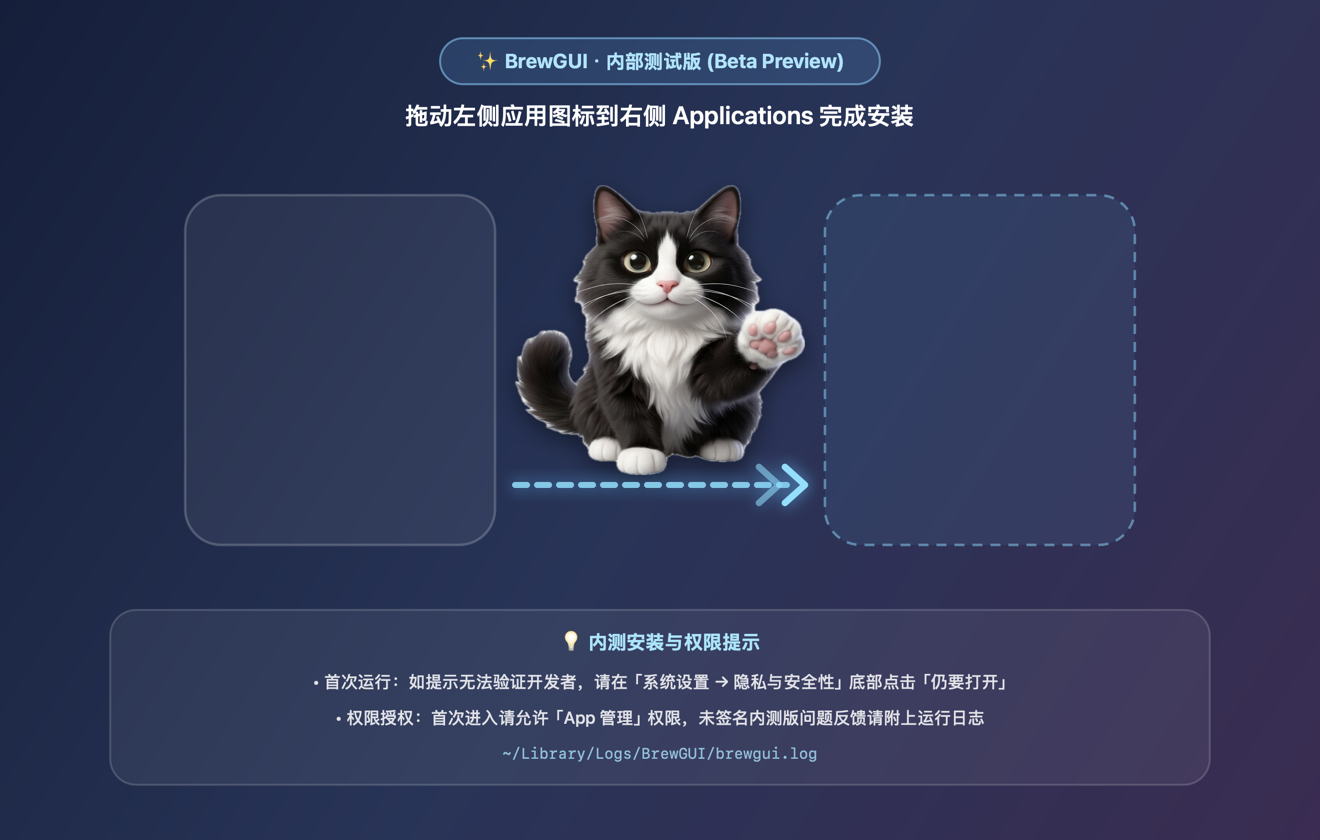
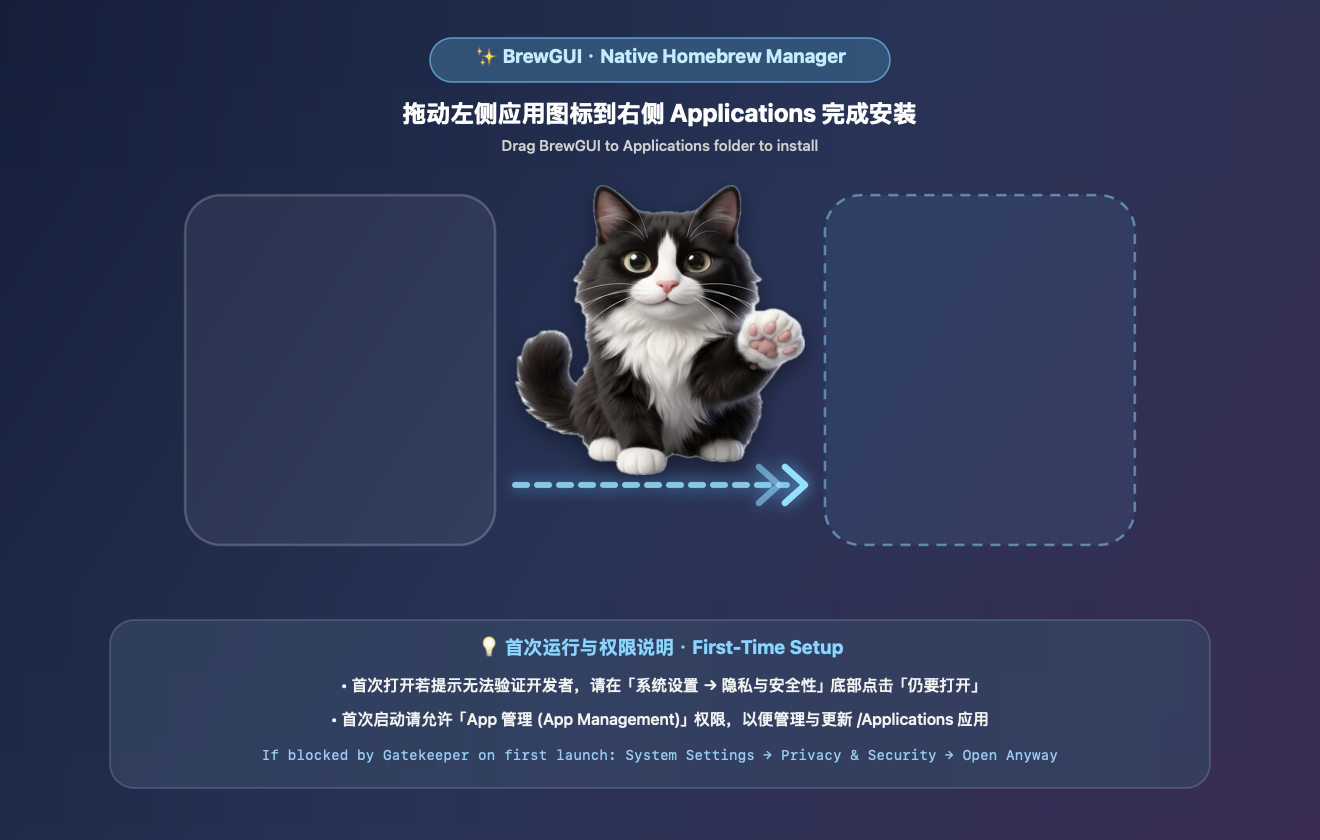
docs & build: add README_EN.md, remove beta badge from DMG bg, and inject dmg_DS_Store for CI

Changed region(s): [[0.0932, 0.7119, 0.9008, 0.9595], [0.2795, 0.031, 0.7144, 0.1857]]

diff --git a/Sources/BrewGUI/Models.swift b/Sources/BrewGUI/Models.swift
@@ -2,7 +2,12 @@ import Foundation
 
 public enum AppConstants {
     /// 版本格式: 版本号.修订号(用法兼容的修订).日期号(YYMMDD)
-    public static let versionString = "1.6.261106"
+    public static let versionString: String = {
+        if let shortVer = Bundle.main.infoDictionary?["CFBundleShortVersionString"] as? String, !shortVer.isEmpty {
+            return shortVer
+        }
+        return "1.6.261106"
+    }()
     public static let githubVersionJSONURL = "https://github.com/cfqbridge/BrewGUI/releases/latest/download/version.json"
     public static let githubMirrorPrefix = "https://ghfast.top/"
 

diff --git a/README_EN.md b/README_EN.md
@@ -1,0 +1,133 @@
+# BrewGUI
+
+<p align="center">
+  <img src="ref/icon_option_c.png" alt="BrewGUI Logo" width="128" height="128" />
+</p>
+
+<p align="center">
+  <strong>A lightweight, native, and transparent Homebrew GUI client for macOS</strong>
+</p>
+
+<p align="center">
+  <a href="readme.md">简体中文</a> · <b>English</b>
+</p>
+
+<p align="center">
+  <a href="https://github.com/cfqbridge/BrewGUI/releases"><img src="https://img.shields.io/badge/Release-v1.6.261106-blue.svg" alt="Release Version"></a>
+  <a href="#"><img src="https://img.shields.io/badge/Platform-macOS%2014.0%2B%20%7C%20Apple%20Silicon-black.svg" alt="Platform"></a>
+  <a href="#"><img src="https://img.shields.io/badge/Swift-6.0%20%7C%20Native%20AppKit%20%2B%20SwiftUI-orange.svg" alt="Swift"></a>
+  <a href="#"><img src="https://img.shields.io/badge/i18n-简体中文%20%7C%20繁體中文%20%7C%20English-teal.svg" alt="i18n"></a>
+  <a href="LICENSE"><img src="https://img.shields.io/badge/License-GPL--3.0-green.svg" alt="License"></a>
+</p>
+
+---
+
+## 🌟 Why BrewGUI?
+
+[Homebrew](https://brew.sh/) is the indispensable package manager for macOS, yet daily CLI workflows often run into friction:
+- **Zero progress feedback during large Cask upgrades**: Non-TTY pipes hide `curl` progress, making hundreds-of-megabyte downloads feel frozen.
+- **Disconnected local apps in `/Applications`**: Manually installed `.dmg` apps sit outside Homebrew Cask tracking or drift out of sync with Cask versions.
+- **Hidden disk bloat**: Gigabytes of cached installers in `~/Library/Caches/Homebrew/downloads` and orphaned Formula dependencies pile up silently.
+- **Tedious machine migration**: Reinstalling dozens of packages one by one or blocked by a single slow Cask download.
+
+**BrewGUI** solves these pain points with a 100% native **Swift 6 + SwiftUI + AppKit** architecture—no Electron, ultra-low memory footprint, instant search, and complete transparency over every `brew` command executed.
+
+---
+
+## ✨ Key Features
+
+### 1. 🪟 Dual Interaction Mode (Desktop Window + Menu Bar Resident)
+- **Left-Click to Open, Right-Click for Quick Popover**: Left-click the menu bar icon to summon the main window; right-click to open an adaptive popover showing outdated packages and one-click upgrades.
+- **Silent Launch at Login**: Optionally start silently in the menu bar (`--silent`) and automatically hide the Dock icon whenever the main window is closed.
+- **Scheduled Background Checks**: Automatically run `brew update` every 12h or 72h in the background with a subtle red badge when updates arrive.
+
+### 2. 🔍 Instant Search & Local App Adoption (`Adopt`)
+- **Millisecond Full-Catalog Search**: Unified search across all Homebrew Formulae and Casks.
+- **Smart `/Applications` Scanner**: Automatically detects manually installed apps, distinguishing Mac App Store (`_MASReceipt`) and iOS/iPadOS wrapped bundles (`WrappedBundle`).
+- **Version-Aware Force Upgrade**: When a local app is older than the Homebrew Cask version, BrewGUI uses `brew install --cask --force` to adopt and upgrade the app in one step rather than merely claiming an outdated bundle.
+
+### 3. 📦 Installed Packages & On-Disk Bundle Verification
+- **Multi-Dimensional Filtering**: Filter by Outdated, Top-Level (`brew leaves`), Formulae, Casks, or Pinned status (`brew pin` / `unpin`).
+- **Real `Info.plist` Version Check**: Cross-checks `/Applications/<App>.app/Contents/Info.plist` against Homebrew's recorded version to catch version drift.
+- **Clean Uninstall & `--zap`**: Uninstall Casks normally or with `--zap` to purge associated caches and preference files.
+
+### 4. 🧹 Maintenance & Disk Cleanup
+- **Download Cache Inspector**: Inspect every cached archive in `~/Library/Caches/Homebrew/downloads`, reveal in Finder, delete individual files, or run `brew cleanup --prune=all` in one click.
+- **Orphan Dependency Removal (`autoremove`)**: Detect and remove unused Formula dependencies safely.
+
+### 5. ⚡ Batch Install & Environment Migration
+- **Paste & Parse**: Paste raw package lists or `brew install` scripts to resolve catalog status in real time.
+- **Concurrent Download Size Probing**: Probes HTTP `HEAD Content-Length` concurrently so you can preview package sizes and filter lightweight packages (`<100MB`) first.
+- **Hybrid Queue Scheduling**: Merges Formulae into a single dependency-shared command while queuing Casks individually so you can skip slow downloads at any time.
+- **One-Click Export**: Export all top-level Formulae (`leaves`) and Casks from your Mac for effortless migration.
+
+### 6. 📊 Real-Time Download Speed & Task Control
+- **Live `.incomplete` Progress Tracking**: Monitors Homebrew's active download stream to display real-time percentage, downloaded bytes, and transfer speed (`KB/s`, `MB/s`).
+- **Full Queue Control**: Skip the current package, stop all tasks, remove queued items, or retry failed/skipped tasks with one click.
+
+### 7. 🌐 Multi-Language (i18n) & In-App Self-Update (v1.6)
+- **Zero-Latency Language Switching**: Built-in **Simplified Chinese (`zh-Hans`)**, **Traditional Chinese (`zh-Hant`)**, and **English (`en`)** with System Default auto-detection. Switch languages anytime from the sidebar footer or menu bar popover without restarting.
+- **SHA256-Verified In-App Self-Update**: Automatically checks GitHub Releases `version.json` (with automatic mirror fallback), downloads the latest `BrewGUI.dmg` in the background, verifies its `SHA256` checksum via `CryptoKit`, silently mounts and replaces `/Applications/BrewGUI.app`, clears quarantine attributes (`xattr -cr`), and relaunches.
+
+---
+
+## 💻 System Requirements
+
+- **OS**: macOS 14.0 (Sonoma) or later
+- **Architecture**: Apple Silicon (`arm64` — M1 / M2 / M3 / M4)
+- **Prerequisite**: [Homebrew](https://brew.sh/) installed (default `/opt/homebrew`)
+
+---
+
+## 🚀 Installation
+
+### Option 1: Download DMG Installer (Recommended)
+1. Download the latest `BrewGUI.dmg` from [GitHub Releases](https://github.com/cfqbridge/BrewGUI/releases).
+2. Open `BrewGUI.dmg` and drag `BrewGUI.app` into the `Applications` folder.
+3. On first launch:
+   - If macOS Gatekeeper prompts that the developer cannot be verified, open **System Settings → Privacy & Security** and click **Open Anyway** (or run `xattr -cr /Applications/BrewGUI.app`).
+   - Grant **App Management** permission when prompted so BrewGUI can install and update applications in `/Applications`.
+
+### Option 2: Build from Source
+Only macOS Command Line Tools (`swift` 6.0+) are required—full Xcode is not needed:
+
+```zsh
+# 1. Clone the repository
+git clone https://github.com/cfqbridge/BrewGUI.git
+cd BrewGUI
+
+# 2. Build and package .app & .dmg
+./scripts/bundle_app.sh
+
+# 3. Launch the app
+open dist/BrewGUI.app
+```
+
+---
+
+## 🛠 Project Structure
+
+```text
+├── Package.swift               # Swift Package Manager manifest
+├── readme.md                   # Chinese documentation (default)
+├── README_EN.md                # English documentation
+├── Sources/
+│   └── BrewGUI/                # Native SwiftUI + AppKit source code
+├── scripts/
+│   └── bundle_app.sh           # Automated build, ad-hoc codesign & DMG packaging script
+└── ref/
+    ├── DESIGN_SUMMARY.md       # Visual design summary & archive notes
+    ├── icon_option_c.png       # App icon source (1024x1024 PNG)
+    ├── dmg_bg_option_c.png     # Retina DMG installer background
+    └── dmg_DS_Store            # Pre-built Finder DMG layout template for CI
+```
+
+---
+
+## 📄 License & Non-Commercial Notice
+
+This project is licensed under the **GNU General Public License v3.0 (GPL-3.0)** — see the [LICENSE](LICENSE) file for details.
+
+### Additional Non-Commercial / Anti-Abuse Notice
+- Without explicit prior written authorization from the original author, no individual or organization may repackage this software or its derivatives as proprietary software, distribute it on commercial app stores for profit, sell it, or bundle commercial advertisements.
+- Personal use, study, issue reporting, and open-source Pull Requests are warmly welcome!

diff --git a/readme.md b/readme.md
@@ -9,6 +9,10 @@
 </p>
 
 <p align="center">
+  <b>简体中文</b> · <a href="README_EN.md">English</a>
+</p>
+
+<p align="center">
   <a href="https://github.com/cfqbridge/BrewGUI/releases"><img src="https://img.shields.io/badge/Release-v1.6.261106-blue.svg" alt="Release Version"></a>
   <a href="#"><img src="https://img.shields.io/badge/Platform-macOS%2014.0%2B%20%7C%20Apple%20Silicon-black.svg" alt="Platform"></a>
   <a href="#"><img src="https://img.shields.io/badge/Swift-6.0%20%7C%20Native%20AppKit%20%2B%20SwiftUI-orange.svg" alt="Swift"></a>
@@ -106,6 +110,8 @@ open dist/BrewGUI.app
 
 ```text
 ├── Package.swift               # SPM 项目定义
+├── readme.md                   # 中文项目文档（默认）
+├── README_EN.md                # 英文项目文档 (English Documentation)
 ├── Sources/
 │   ├── App/                    # 应用入口、菜单栏控制器与窗口策略
 │   ├── Models/                 # 数据结构定义 (Entry, Task, CacheItem 等)
@@ -117,7 +123,8 @@ open dist/BrewGUI.app
 └── ref/
     ├── DESIGN_SUMMARY.md       # 视觉选型与设计归档说明
     ├── icon_option_c.png       # 应用高清原生图标源文件
-    └── dmg_bg_option_c.png     # DMG 视网膜安装背景图
+    ├── dmg_bg_option_c.png     # DMG 视网膜安装背景图
+    └── dmg_DS_Store            # DMG 窗口布局与背景绑定模板 (供 GitHub Actions 使用)
 ```
 
 ---
